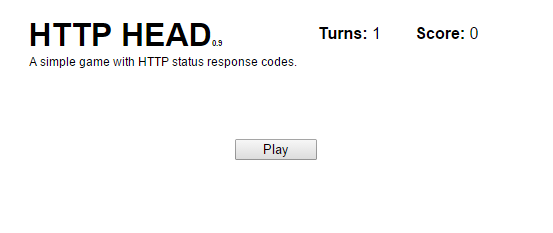
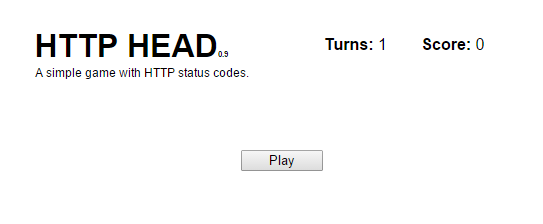
Name change

diff --git a/index.html b/index.html
@@ -1,7 +1,7 @@
 <!DOCTYPE html>
 <html>
 	<head>
-		<title>HTTP HEAD</title>
+		<title>HTTP CODES</title>
 		<meta name="author" content="anthony.destefano@gmail.com" />
 		<style>
 		h4         	{ margin-top:-20px;font-size:12px; font-weight:normal; }
@@ -25,7 +25,7 @@
 	<body>
 	<div id="wrapper">
 		<div id="content">
-			<h1>HTTP HEAD<span id="version"></span></h1>
+			<h1>HTTP CODES<span id="version"></span></h1>
 			<h4>A simple game with HTTP status codes.</h4>
 			<span id="scoreboard">
 				<span id="_turns"><b>Turns: </b><span id="turns">1</span></span>
@@ -95,13 +95,62 @@
 			
 			init : function () {
 				this.log("HTTP HEAD Game v" + this.ver);
-				// Cheaters are only cheating themselves
-				// I packed the answer list as to not make it obvious just trolling the source.
-				// the point of this page is not to help you feel clever or feel dumb,
-				// it is intended to help all of us keep sharp and have fun doing it.
-				// http://dean.edwards.name/packer/
-				eval(function(p,a,c,k,e,r){e=function(c){return(c<a?'':e(parseInt(c/a)))+((c=c%a)>35?String.fromCharCode(c+29):c.toString(36))};if(!''.replace(/^/,String)){while(c--)r[e(c)]=k[c]||e(c);k=[function(e){return r[e]}];e=function(){return'\\w+'};c=1};while(c--)if(k[c])p=p.replace(new RegExp('\\b'+e(c)+'\\b','g'),k[c]);return p}('G.c[0]=a G.b("B","f");G.c[1]=a G.b("g","h i");G.c[2]=a G.b("j","k");G.c[3]=a G.b("l","d");G.c[4]=a G.b("n","o");G.c[5]=a G.b("p","q");G.c[6]=a G.b("r","s");G.c[7]=a G.b("t","u-v w");G.c[8]=a G.b("x","y e");G.c[9]=a G.b("z","A e");G.c[10]=a G.b("C","D e");G.c[11]=a G.b("E","F-H");G.c[12]=a G.b("I","J K");G.c[13]=a G.b("L","d");G.c[14]=a G.b("M","N O");G.c[15]=a G.b("P","d");G.c[16]=a G.b("Q","R S");G.c[17]=a G.b("T","U V");G.c[18]=a G.b("W","X");G.c[19]=a G.b("Y","Z 1a");G.c[1b]=a G.b("1c","1d m");',62,76,'||||||||||new|HTTP|HDRS|Unassigned|Content|Continue|101|Switching|Protocols|102|Processing|103|Modified|200|OK|201|Created|202|Accepted|203|Non|Authoritative|Information|204|No|205|Reset|100|206|Partial|207|Multi||Status|208|Already|Reported|209|226|IM|Used|227|300|Multiple|Choices|301|Moved|Permanently|302|Found|303|See|||||||||||Other|20|304|Not'.split('|'),0,{}))
-			
+				
+				G.HDRS[0] = new G.HTTP("100", "Continue", "RFC7231, Section 6.2.1", "http://www.iana.org/go/rfc7231");
+				G.HDRS[1] = new G.HTTP("101", "Switching Protocols", "RFC7231, Section 6.2.2", "http://www.iana.org/go/rfc7231");
+				G.HDRS[2] = new G.HTTP("102", "Processing", "RFC2518", "http://www.iana.org/go/rfc2518");
+				G.HDRS[3] = new G.HTTP("103", "Unassigned", "", "");
+				
+				G.HDRS[4] = new G.HTTP("200", "OK", "RFC7231, Section 6.3.1", "http://www.iana.org/go/rfc7231");
+				G.HDRS[5] = new G.HTTP("201", "Created", "RFC7231, Section 6.3.2", "http://www.iana.org/go/rfc7231");
+				G.HDRS[6] = new G.HTTP("202", "Accepted", "RFC7231, Section 6.3.3", "http://www.iana.org/go/rfc7231");
+				G.HDRS[7] = new G.HTTP("203", "Non-Authoritative Information", "RFC7231, Section 6.3.4", "http://www.iana.org/go/rfc7231");
+				G.HDRS[8] = new G.HTTP("204", "No Content", "RFC7231, Section 6.3.5", "http://www.iana.org/go/rfc7231");
+				G.HDRS[9] = new G.HTTP("205", "Reset Content", "RFC7231, Section 6.3.6", "http://www.iana.org/go/rfc7231");
+				G.HDRS[10] = new G.HTTP("206", "Partial Content", "RFC7233, Section 4.1", "http://www.iana.org/go/rfc7233");
+				G.HDRS[11] = new G.HTTP("207", "Multi-Status", "RFC4918", "http://www.iana.org/go/rfc4918");
+				G.HDRS[12] = new G.HTTP("208", "Already Reported", "RFC5842", "http://www.iana.org/go/rfc5842");
+				G.HDRS[13] = new G.HTTP("209", "Unassigned", "", "");
+				G.HDRS[14] = new G.HTTP("226", "IM Used", "RFC3229", "http://www.iana.org/go/rfc3229");
+				G.HDRS[15] = new G.HTTP("227", "Unassigned", "", "");
+				
+				G.HDRS[16] = new G.HTTP("300", "Multiple Choices", "RFC7231, Section 6.4.1", "http://www.iana.org/go/rfc7231");
+				G.HDRS[17] = new G.HTTP("301", "Moved Permanently", "RFC7231, Section 6.4.2", "http://www.iana.org/go/rfc7231");
+				G.HDRS[18] = new G.HTTP("302", "Found", "RFC7231, Section 6.4.3", "http://www.iana.org/go/rfc7231");
+				G.HDRS[19] = new G.HTTP("303", "See Other", "RFC7231, Section 6.4.4", "http://www.iana.org/go/rfc7231");
+				G.HDRS[20] = new G.HTTP("304", "Not Modified", "RFC7232, Section 4.1", "http://www.iana.org/go/rfc7232");
+				G.HDRS[21] = new G.HTTP("305", "Use Proxy", "RFC7231, Section 6.4.5", "http://www.iana.org/go/rfc7231");
+				G.HDRS[22] = new G.HTTP("306", "(Unused)", "RFC7231, Section 6.4.6", "http://www.iana.org/go/rfc7231");
+				G.HDRS[23] = new G.HTTP("307", "Temporary Redirect", "RFC7231, Section 6.4.7", "http://www.iana.org/go/rfc7231");
+				G.HDRS[24] = new G.HTTP("308", "Permanent Redirect", "RFC7538", "http://www.iana.org/go/rfc7538");
+				G.HDRS[25] = new G.HTTP("309", "Unassigned", "", "");
+
+				G.HDRS[26] = new G.HTTP("400", "Bad Request", "RFC7231, Section 6.5.1", "http://www.iana.org/go/rfc7231");
+				G.HDRS[28] = new G.HTTP("401", "Unauthorized", "RFC7235, Section 3.1", "http://www.iana.org/go/rfc7235");
+				G.HDRS[29] = new G.HTTP("402", "Payment Required", "RFC7231, Section 6.5.2", "http://www.iana.org/go/rfc7231");
+				G.HDRS[30] = new G.HTTP("403", "Forbidden", "RFC7231, Section 6.5.3", "http://www.iana.org/go/rfc7231");
+				G.HDRS[31] = new G.HTTP("404", "Not Found", "RFC7231, Section 6.5.4", "http://www.iana.org/go/rfc7231");
+				G.HDRS[32] = new G.HTTP("405", "Method Not Allowed", "RFC7231, Section 6.5.5", "http://www.iana.org/go/rfc7231");
+				G.HDRS[33] = new G.HTTP("406", "Not Acceptable", "RFC7231, Section 6.5.6", "http://www.iana.org/go/rfc7231");
+				G.HDRS[34] = new G.HTTP("407", "Proxy Authentication Required", "RFC7235, Section 3.2", "http://www.iana.org/go/rfc7235");
+				G.HDRS[35] = new G.HTTP("408", "Request Timeout", "RFC7231, Section 6.5.7", "http://www.iana.org/go/rfc7231");
+				G.HDRS[36] = new G.HTTP("409", "Conflict", "RFC7231, Section 6.5.8", "http://www.iana.org/go/rfc7231");
+				G.HDRS[37] = new G.HTTP("410", "Gone", "RFC7231, Section 6.5.9", "http://www.iana.org/go/rfc7231");
+				G.HDRS[38] = new G.HTTP("411", "Length Required", "RFC7231, Section 6.5.10", "http://www.iana.org/go/rfc7231");
+				G.HDRS[39] = new G.HTTP("412", "Precondition Failed", "RFC7232, Section 4.2", "http://www.iana.org/go/rfc7232");
+				G.HDRS[40] = new G.HTTP("413", "Payload Too Large", "RFC7231, Section 6.5.11", "http://www.iana.org/go/rfc7231");
+				
+				G.HDRS[41] = new G.HTTP("414", "URI Too Long", "RFC7231, Section 6.5.12", "http://www.iana.org/go/rfc7231");
+				G.HDRS[42] = new G.HTTP("415", "Unsupported Media Type", "RFC7231, Section 6.5.13", "http://www.iana.org/go/rfc7231");
+				G.HDRS[43] = new G.HTTP("416", "Range Not Satisfiable", "RFC7233, Section 4.4", "http://www.iana.org/go/rfc7233");
+				G.HDRS[44] = new G.HTTP("417", "Expectation Failed", "RFC7231, Section 6.5.14", "http://www.iana.org/go/rfc7231");
+				G.HDRS[45] = new G.HTTP("418", "Unassigned", "h", "h");
+				G.HDRS[46] = new G.HTTP("421", "Misdirected Request", "RFC7540, Section 9.1.2", "http://www.iana.org/go/rfc7540");
+				
+				
+				
+				
+				
 				if (this.chkData()) {
 					this.setVer();
 					this.incoming();
@@ -274,9 +323,11 @@
 			},
 			// define an HTTP status response
 			// object constructor
-			HTTP : function (code, desc) {
+			HTTP : function (code, desc, ref, reflink) {
 				this.code = code;
 				this.desc = desc;
+				this.ref = ref;
+				this.reflink = reflink;
 			}
 		}
 		window.onload = G.init();
